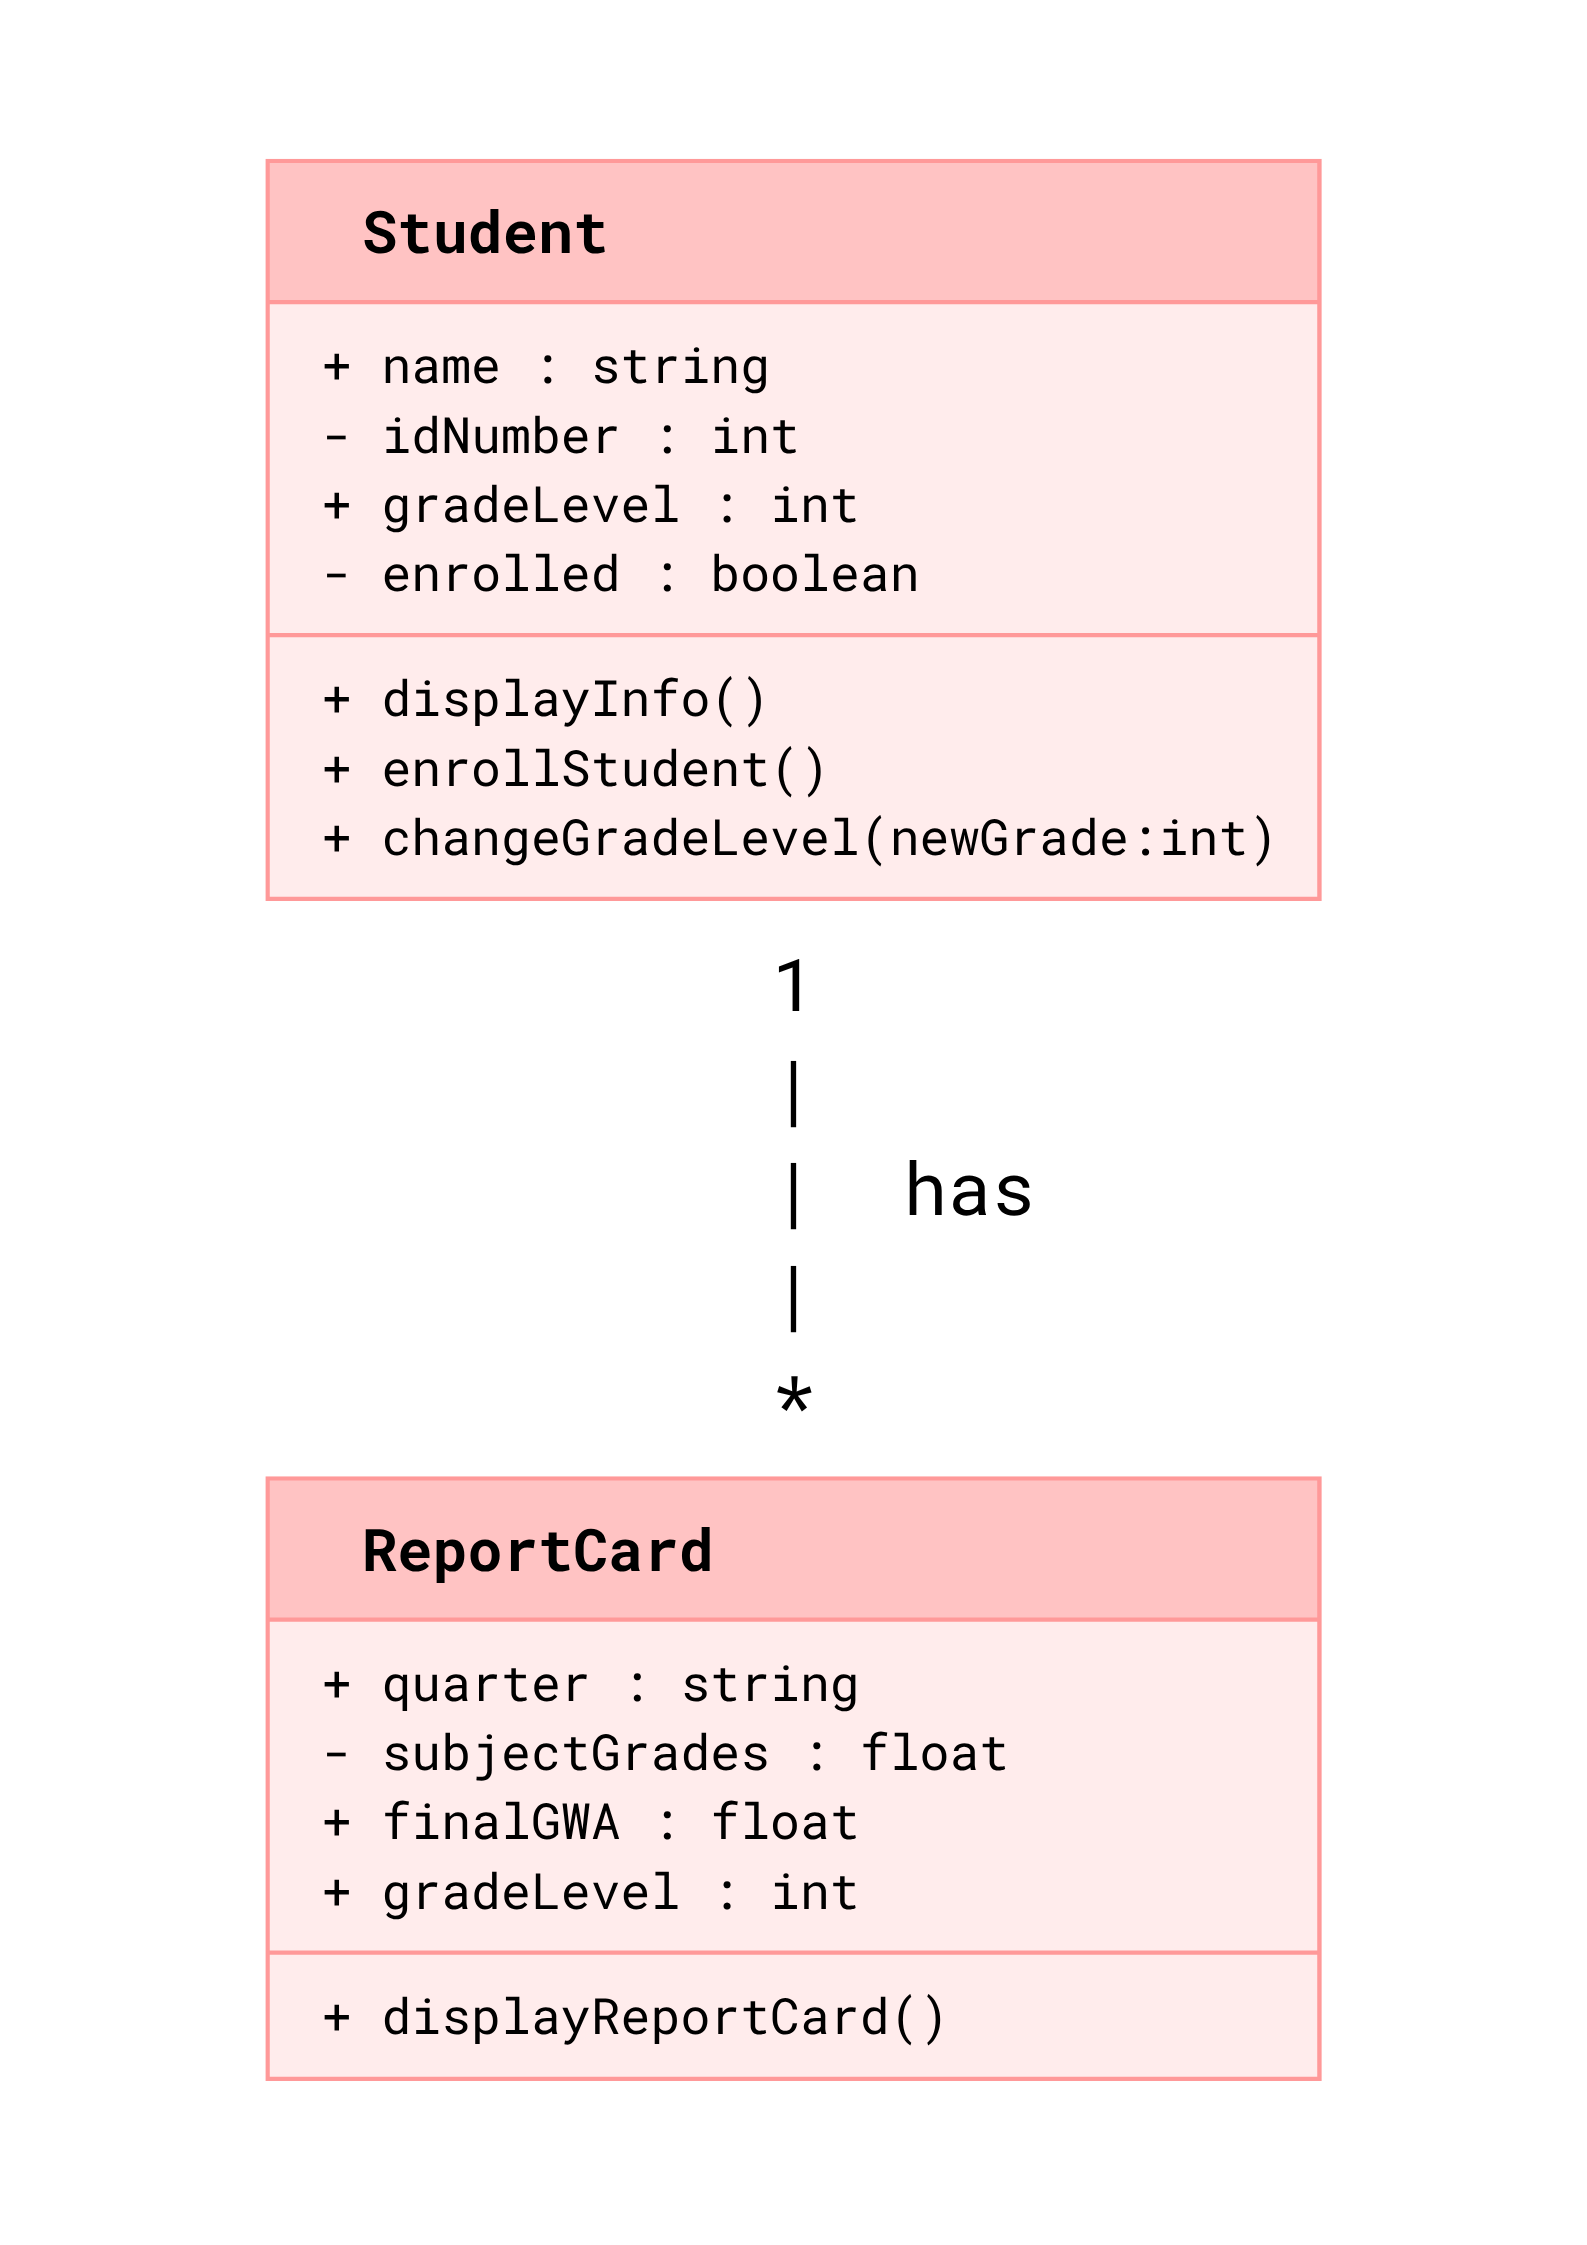
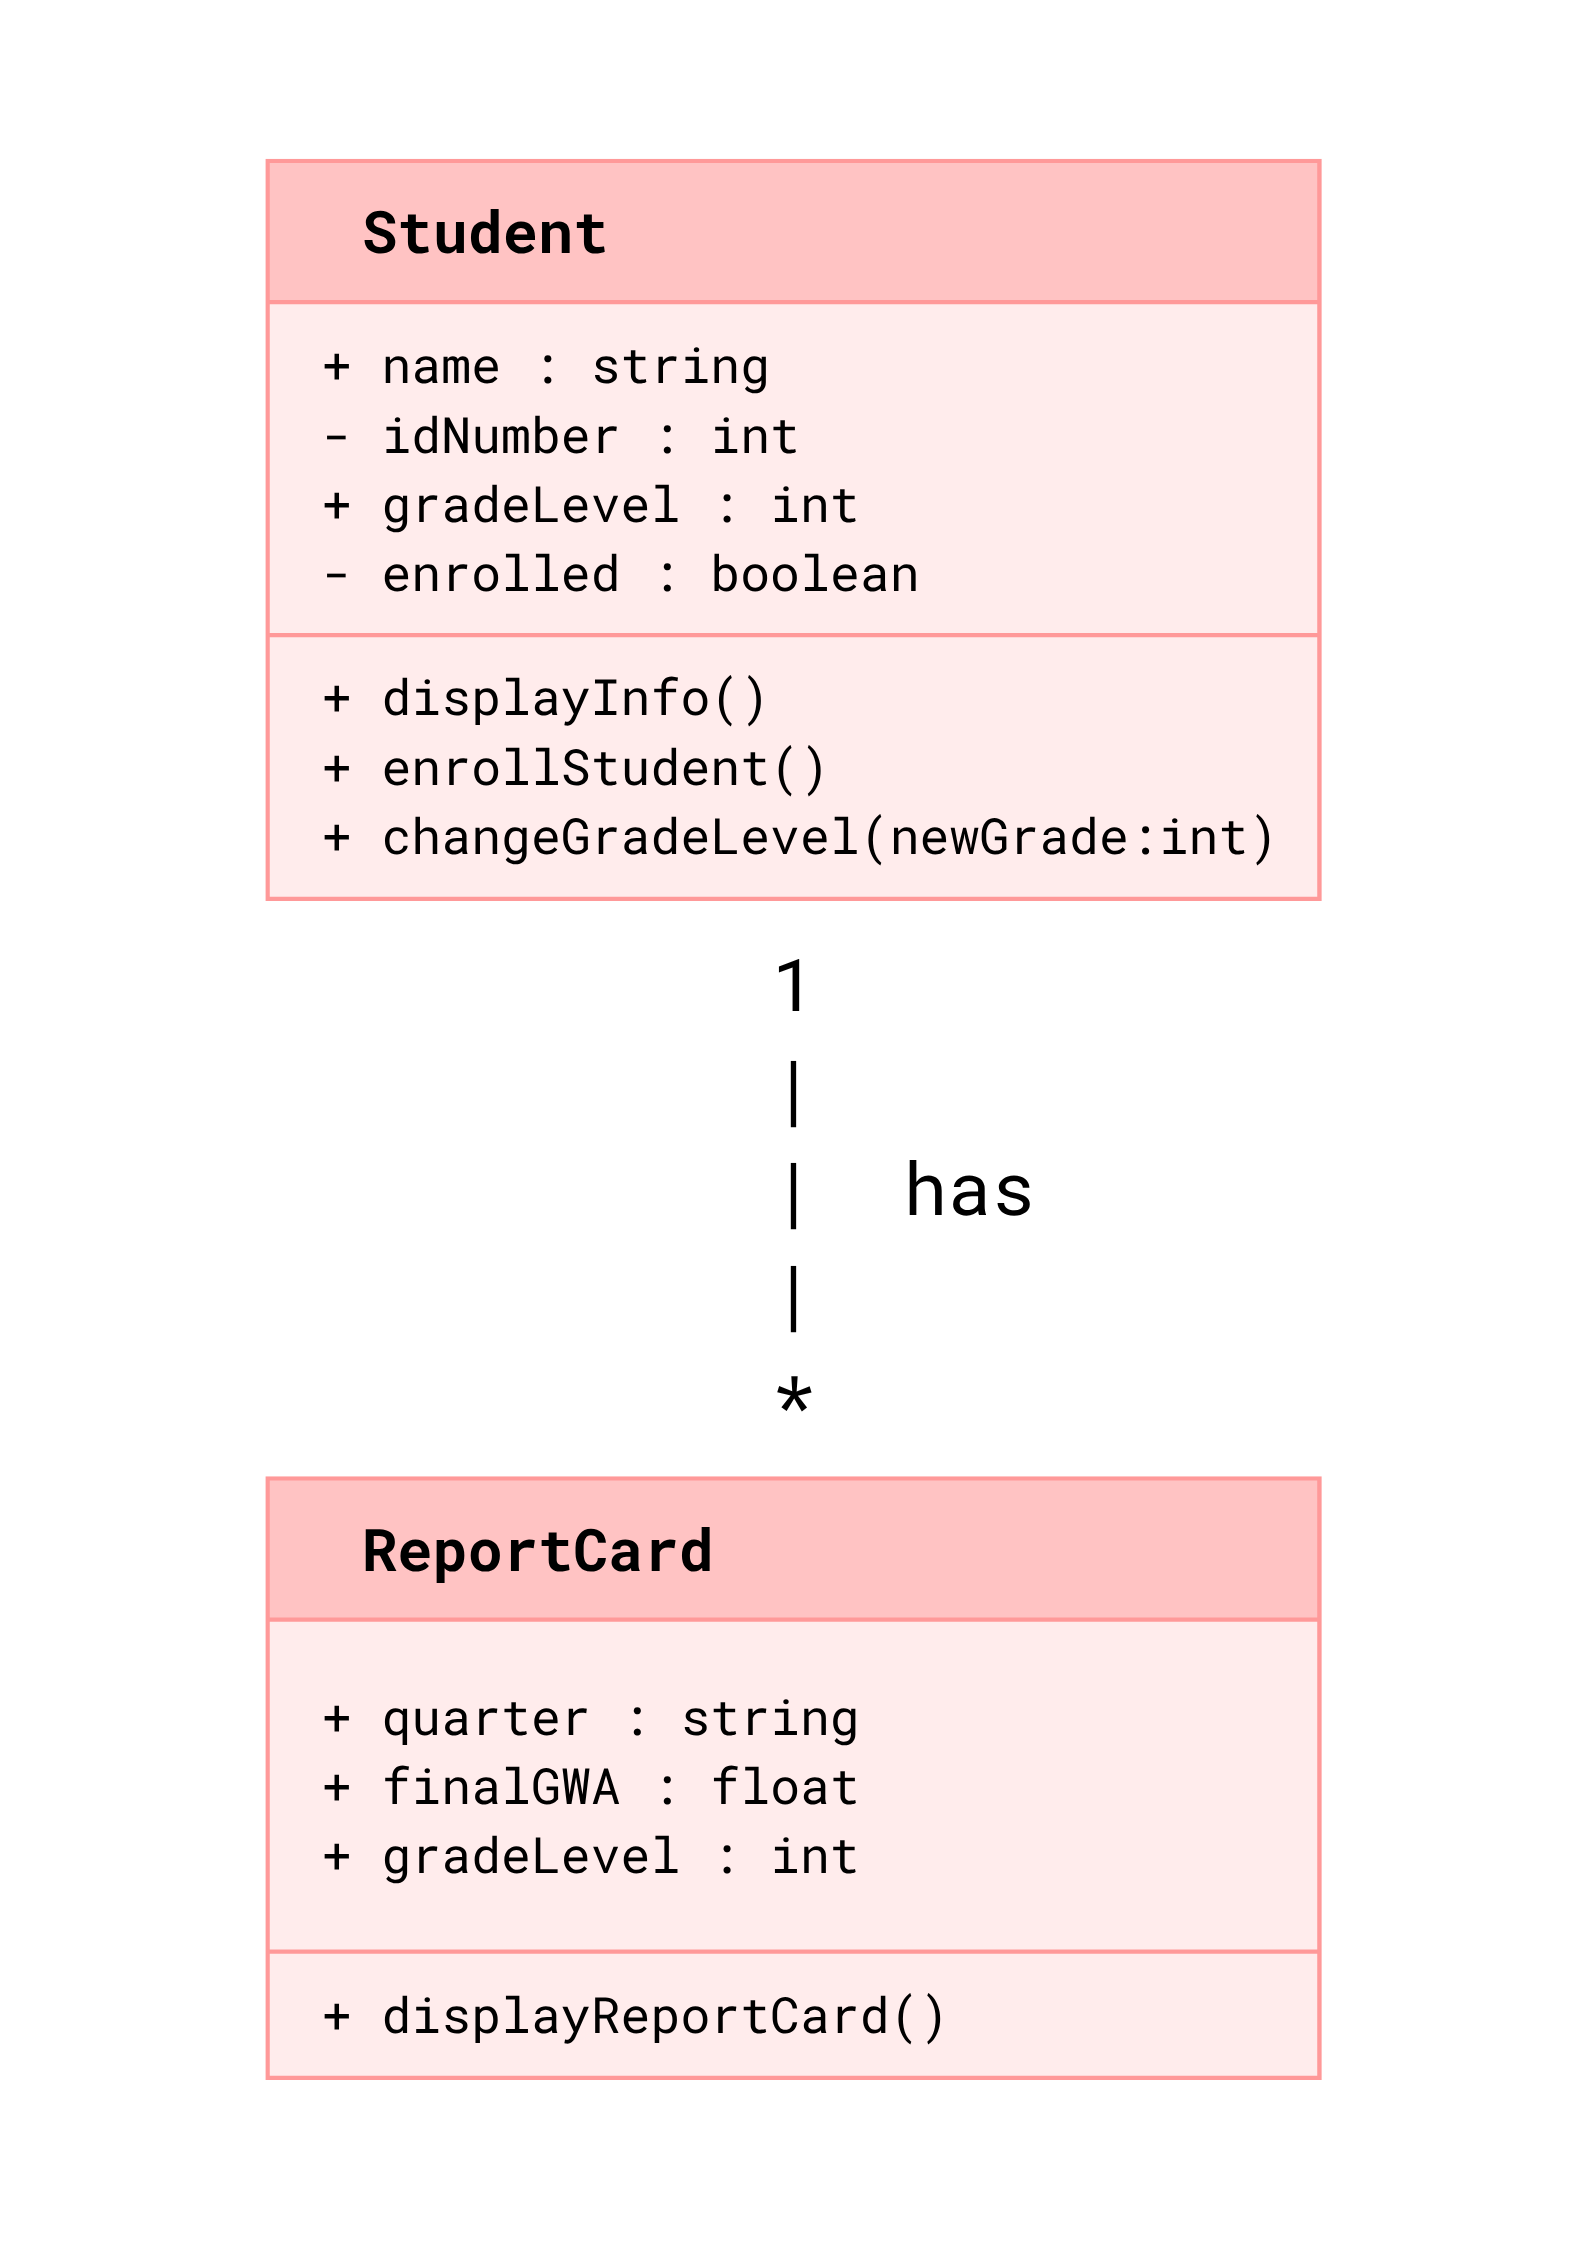
final

diff --git a/q1/classRelationships.md b/q1/classRelationships.md
@@ -24,7 +24,12 @@ Explanation: One Student can have many ReportCards accumulated throughout their 
 ![Object Relationship Diagram](objectRelationshipDiagram.png)
 ## Analysis
 ### What is the association between your two classes?
+This association connects a Student object directly to its corresponding ReportCard objects. It links a student's profile to their quarterly progress, ensuring academic measures like a student's GWA are tied to a verifiable record. By doing this, the system prevents grades and performance data from existing in isolation.
 ### What multiplicity did you choose and why?
+I chose a 1:Many multiplicity because a single student accumulates multiple report cards over a school year. A 1:1 multiplicity would be incorrect because it would restrict a student to only one report card for their entire academic year/life, making it impossible to track separate quarters. Additionally, each individual report card is unique and must belong exclusively to exactly one student to prevent grading mix-ups.
 ### How did you implement the relationship in Python?
+I implemented this relationship in Python by initializing a python list within the Student class constructor. Specifically, the self.reportCards attribute is used to store and manage the collection of related objects. I then created a dedicated method called add_report_card that appends individual ReportCard instances into this list to build the system.
 ### Why did you store an object reference instead of copying its data?
+Storing an object reference allows any live updates made to a report card immediately reflect across the whole system without needing to manually synchronize data. For example, when student1 accesses card1.finalGWA through the list, it reads directly from the original report card. If a teacher modifies that GWA later on, the student object automatically views the updated value since it points to the same object.
 ### If your relationship uses many, why is a list appropriate?
+A list is the most appropriate container for a "many" relationship because it preserves the chronological order of the quarters and allows the collection to grow as new quarters pass. Instead of holding raw data like text strings or numbers, this list actually contains the references of the instantiated ReportCard objects. This structural design allows us to easily loop through the container and call methods or view attributes directly from the connected objects.
